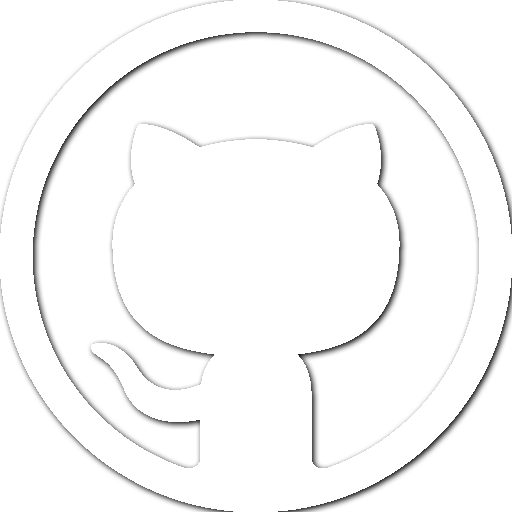
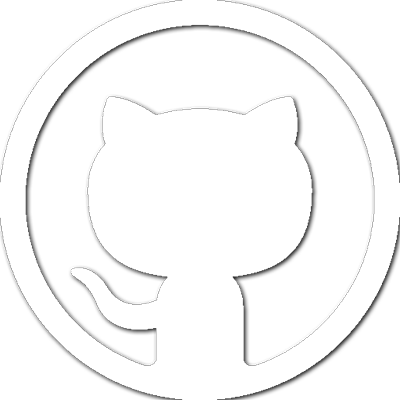
Added lower-res pictures

diff --git a/_includes/projects.html b/_includes/projects.html
@@ -1,1 +1,1 @@
-<section class="projects-wrap"><div id="project-information"><div class="title">showProjects(<span class="name">dylan</span>)<span class="blinking-cursor">|</span></div><div id="twitter" class="hover-scale image-block"><img src="assets/img/twitterstudy.png"/></div></div></section>
+<section class="projects-wrap"><div id="project-information"><div class="title">showProjects(<span class="name">dylan</span>)<span class="blinking-cursor">|</span></div><div id="twitter" class="hover-scale image-block"><a href="http://twitterfeed.web.engr.illinois.edu/TweedStudy/twitter.php"><img src="assets/img/twitterstudy.png"/></a></div></div></section>
